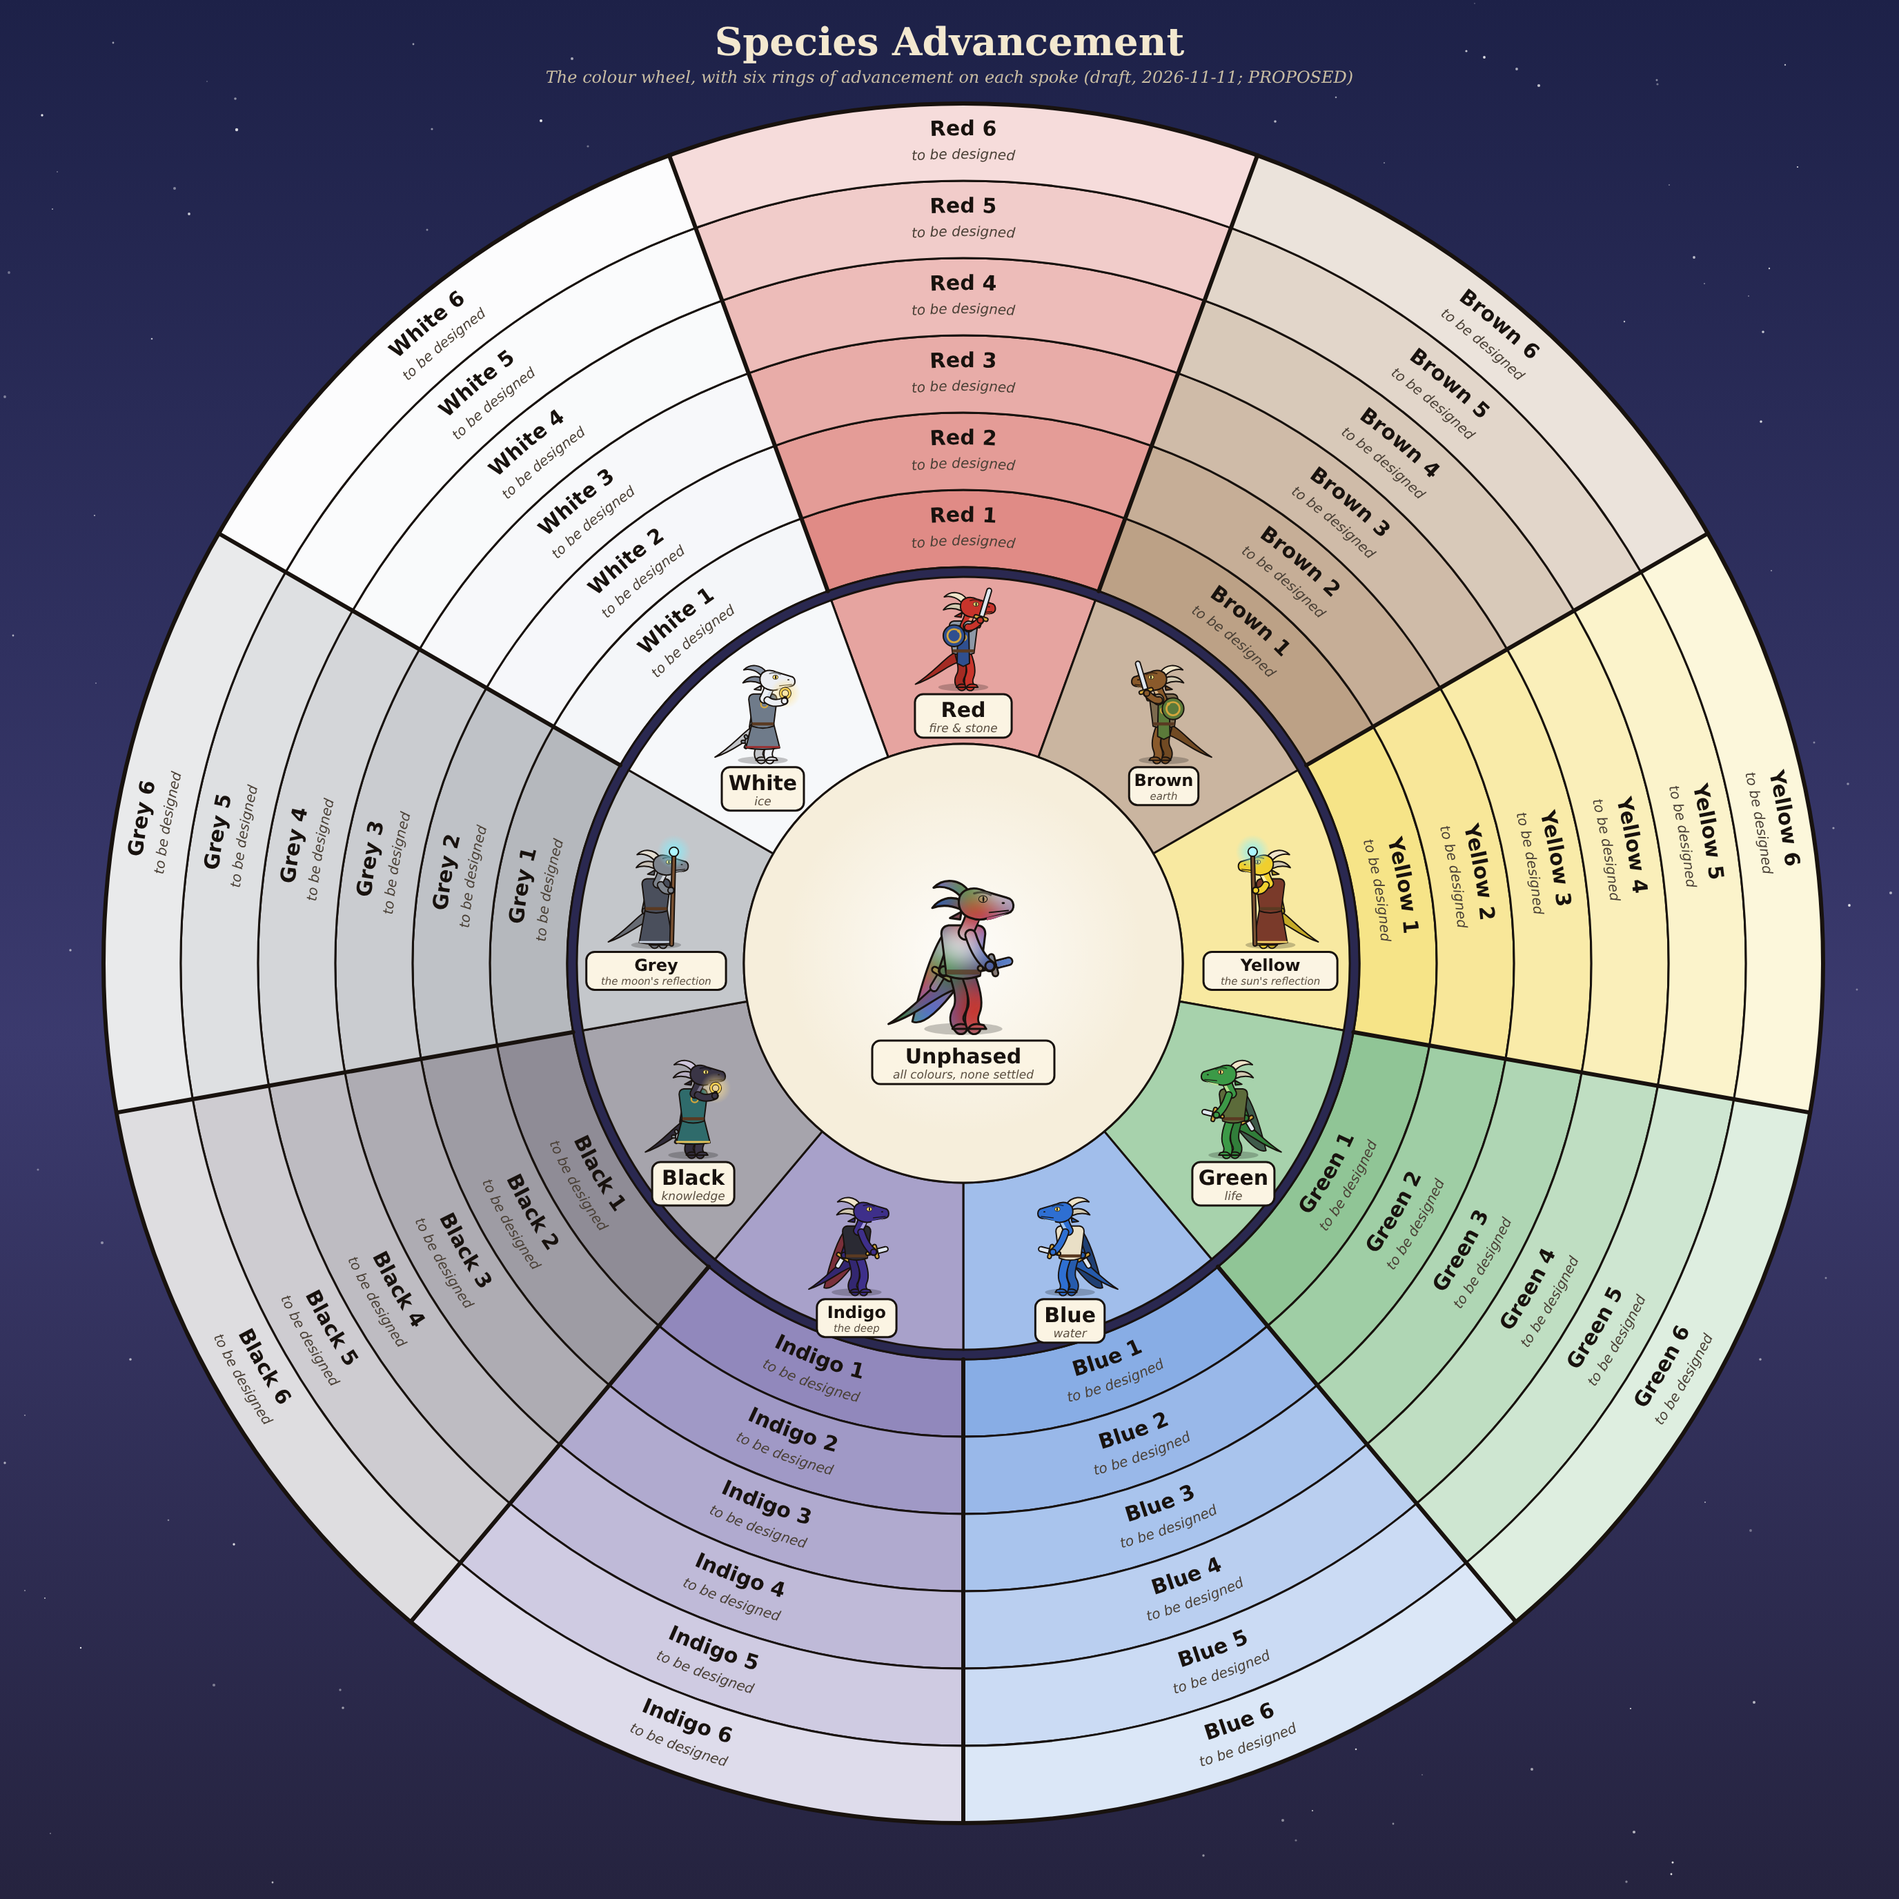
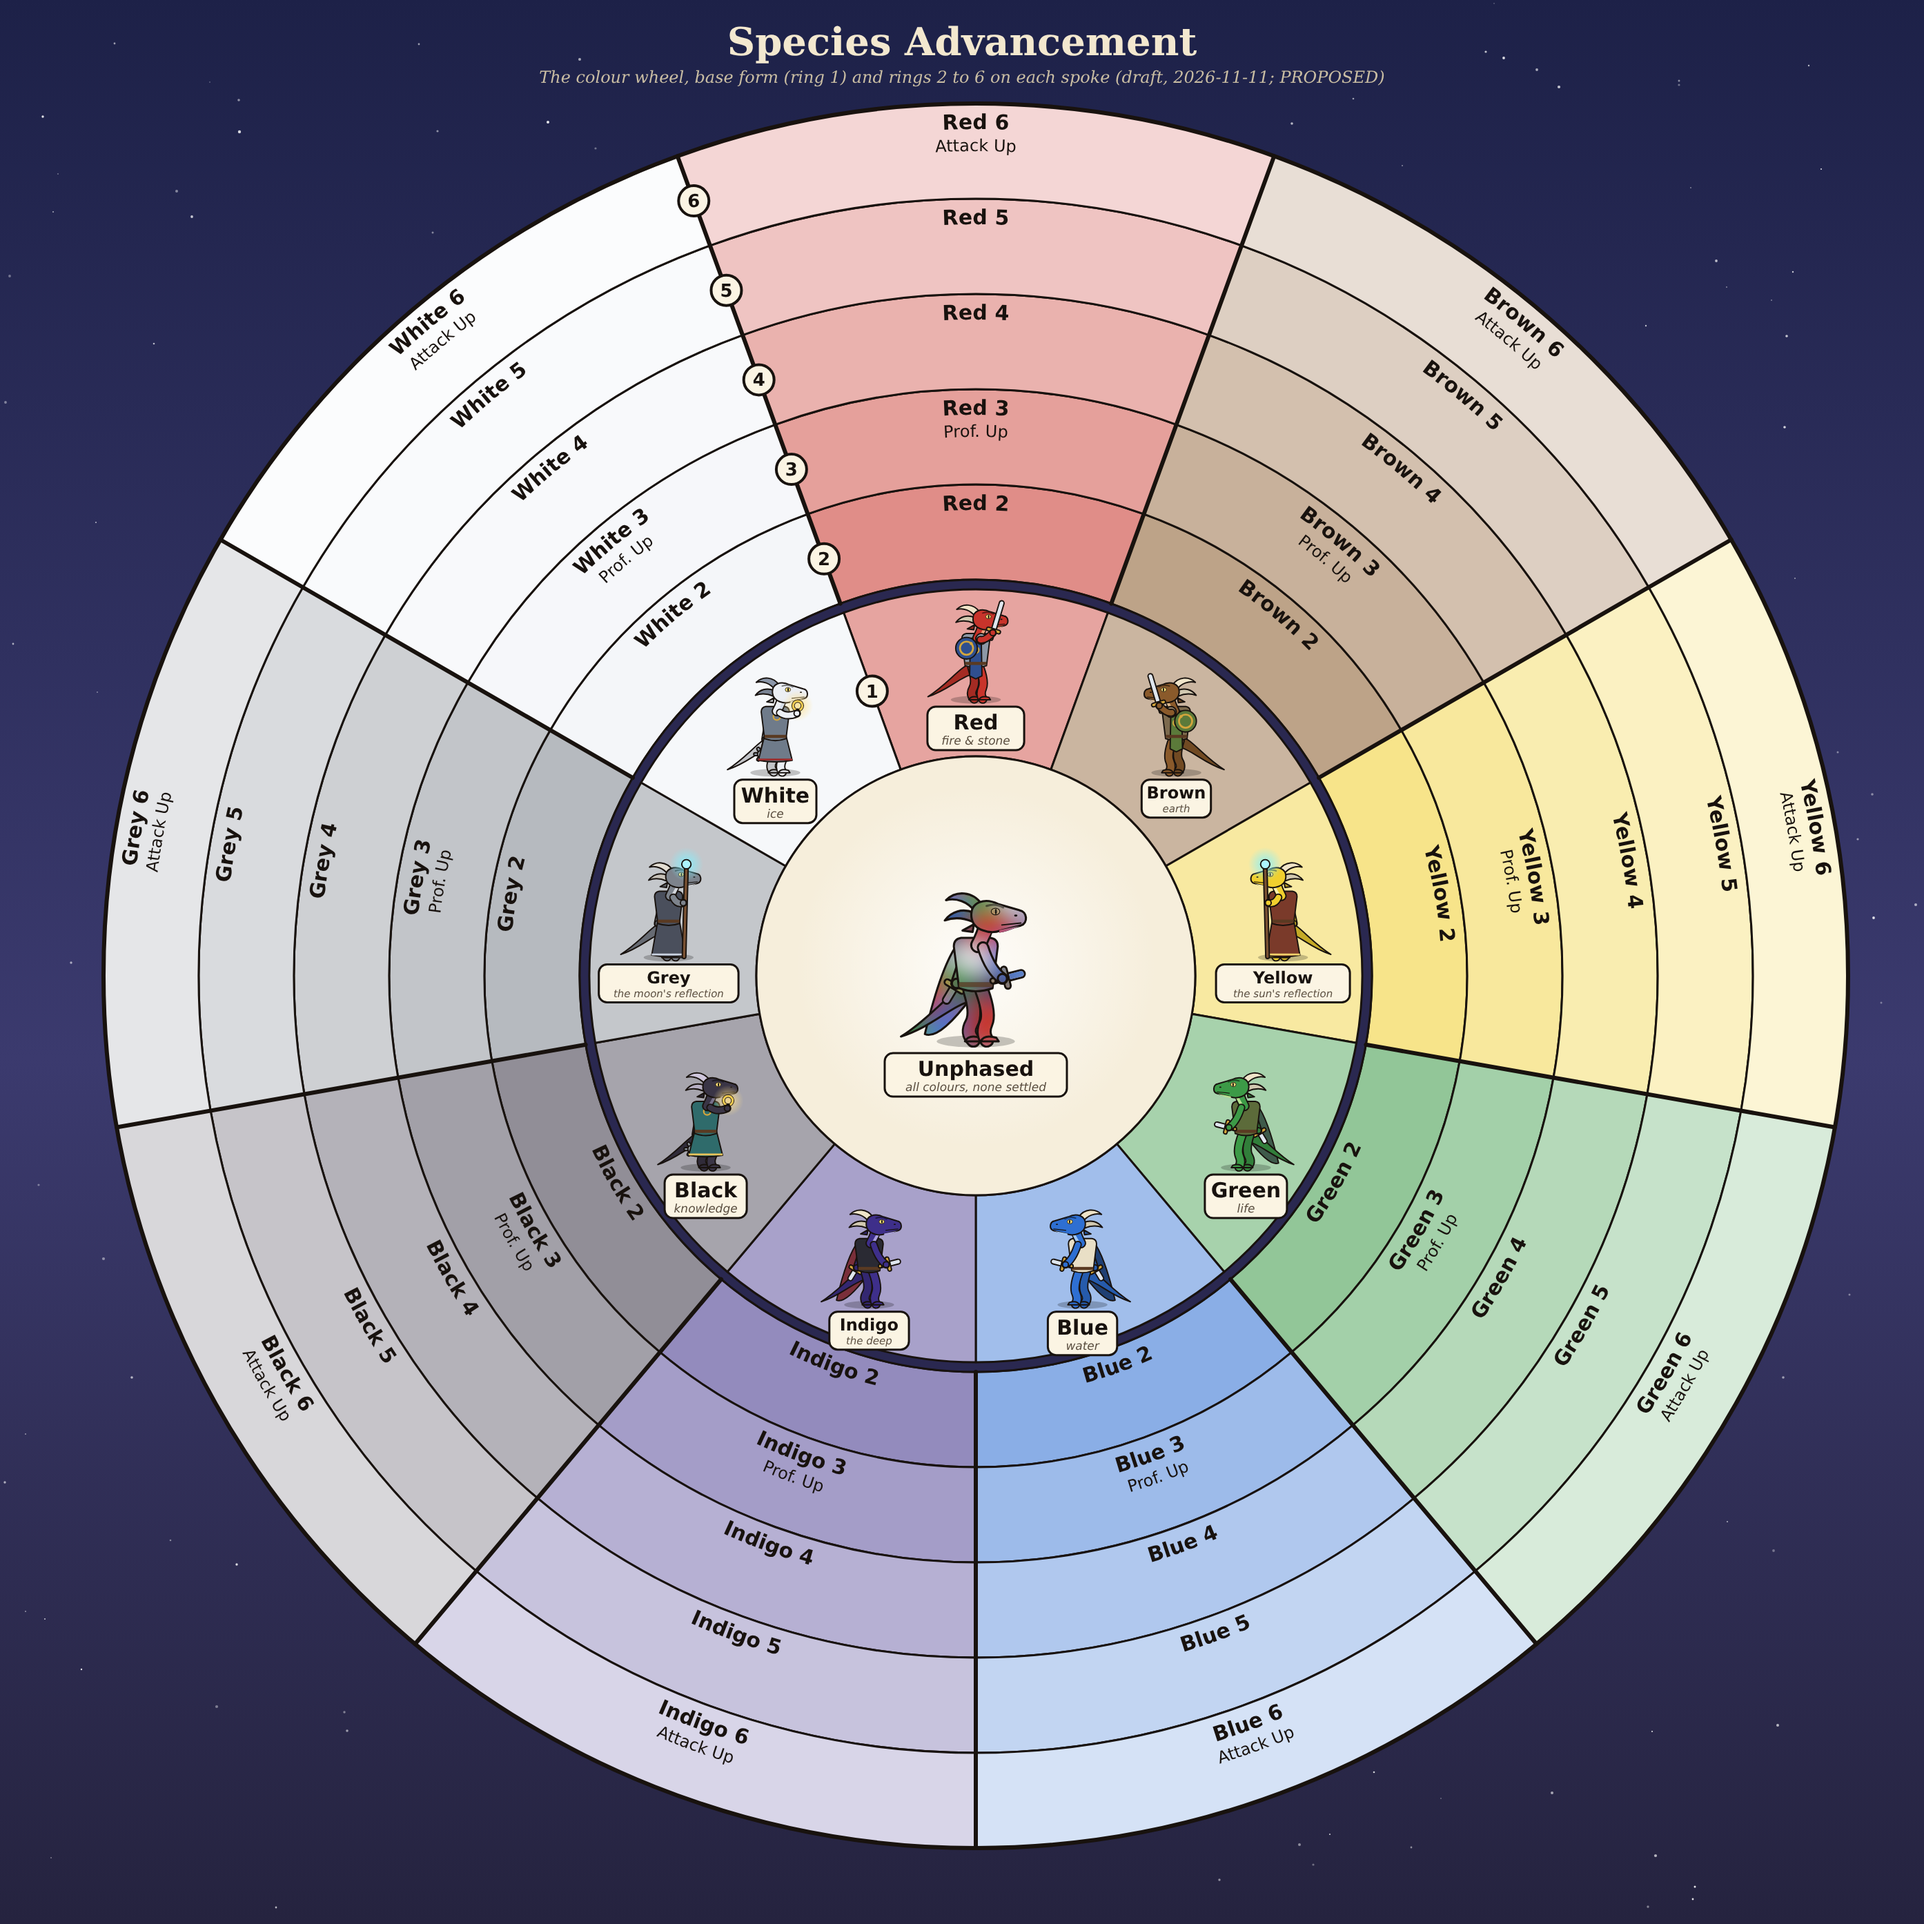
Species wheel: base form is ring 1, rings 2-6; Prof. Up on ring 3, Attack Up on ring 6
Claude-Session: https://claude.ai/code/session_014HRxeLr7e6EW9qyhZxDWju

diff --git a/art/cartoon/species_advancement.py b/art/cartoon/species_advancement.py
@@ -16,9 +16,12 @@ import party
 from party import figure, light, dark
 
 st, INK = cw.st, cw.INK
-RINGS = 6
+# Ring 1 is the base form (the colour wheel itself); rings 2-6 go outward
+# (Troy, 2026-11-11). 9 x 5 = 45 arcs beyond the base.
+FIRST, LAST = 2, 6
+RINGS = LAST - FIRST + 1
 R0 = cw.R_OUT + 14          # the colour wheel's outer edge (its thin outer circle)
-RW = 112                     # width of each advancement ring
+RW = 138                     # width of each advancement ring (three text lines)
 R_MAX = R0 + RINGS * RW
 MARGIN = 130
 W = H = int(2 * (R_MAX + MARGIN))
@@ -27,7 +30,10 @@ CX = CY = W // 2 + 20
 cw.W, cw.H, cw.CX, cw.CY = W, H, CX, CY
 STEP = cw.STEP
 
-# Arc contents: (form, ring) -> (title, subtitle). Empty for now.
+# Arc contents: (form, ring) -> (title, descriptor, numbers line).
+# Fixed for every colour (Troy, 2026-11-11): Prof. Up at ring 3, Attack Up at
+# ring 6, matching what six deep on the skills grid gives.
+FIXED = {3: "Prof. Up", 6: "Attack Up"}
 ARCS = {}
 
 
@@ -83,22 +89,25 @@ def build():
     for i, (form, name, *_rest) in enumerate(cw.WHEEL):
         scale, _belly = party.DRAGONS[form]
         a0, a1 = i * STEP - STEP / 2, i * STEP + STEP / 2
-        for k in range(1, RINGS + 1):
-            r_in, r_out = R0 + (k - 1) * RW, R0 + k * RW
-            o.append(arc_band(r_in, r_out, a0, a1, light(scale, 0.35 + 0.08 * k)))
-            title, sub = ARCS.get((form, k), (f"{name} {k}", "to be designed"))
+        for j, k in enumerate(range(FIRST, LAST + 1)):
+            r_in, r_out = R0 + j * RW, R0 + (j + 1) * RW
+            o.append(arc_band(r_in, r_out, a0, a1, light(scale, 0.35 + 0.09 * (j + 1))))
+            title, desc, nums = ARCS.get((form, k), (f"{name} {k}", FIXED.get(k, ""), ""))
             pid = f"t_{form}_{k}"
-            # two lines: title nearer the outer edge, subtitle nearer the inner
+            # Three lines, outermost first: title, descriptor, numbers. On the
+            # lower half the text is upright, so the order flips radially.
             mid_r = (r_in + r_out) / 2
-            lower = 90 < (i * STEP) % 360 < 270
-            r_title = mid_r + (-10 if lower else 10)
-            r_sub = mid_r + (24 if lower else -24)
+            sgn = -1 if 90 < (i * STEP) % 360 < 270 else 1
             pad = 2.0
-            d1, _ = text_arc(pid + "a", r_title, a0 + pad, a1 - pad)
-            d2, _ = text_arc(pid + "b", r_sub, a0 + pad, a1 - pad)
-            defs += [d1, d2]
-            texts.append(curved(pid + "a", title, 30))
-            texts.append(curved(pid + "b", sub, 20, weight="normal", style="italic", fill="#4a4036"))
+            for tag, off, txt, size, weight, style, fill in (
+                    ("a", 32, title, 30, "bold", "normal", INK),
+                    ("b", 0, desc, 24, "normal", "normal", INK),
+                    ("c", -34, nums, 22, "normal", "normal", "#4a4036")):
+                if not txt:
+                    continue
+                d, _ = text_arc(pid + tag, mid_r + sgn * off - (9 if sgn > 0 else -9) * 0, a0 + pad, a1 - pad)
+                defs.append(d)
+                texts.append(curved(pid + tag, txt, size, weight=weight, style=style, fill=fill))
     o.append('<defs>' + ''.join(defs) + '</defs>')
     o += texts
     # The colour wheel itself, as in colour_wheel.py (no Gold or Silver).
@@ -124,11 +133,18 @@ def build():
         p, q = pt(R0, a), pt(R_MAX, a)
         o.append(f'<line x1="{p[0]:.1f}" y1="{p[1]:.1f}" x2="{q[0]:.1f}" y2="{q[1]:.1f}" stroke="{INK}" stroke-width="6" stroke-linecap="round"/>')
     o.append(f'<circle cx="{CX}" cy="{CY}" r="{R_MAX}" fill="none" stroke="{INK}" stroke-width="6"/>')
+    # Ring numbers on the White-Red boundary: 1 is the base form.
+    a = -STEP / 2
+    for k, r in [(1, (cw.R_IN + cw.R_OUT) / 2)] + [(k, R0 + (j + 0.5) * RW) for j, k in enumerate(range(FIRST, LAST + 1))]:
+        x, y = pt(r, a)
+        o.append(f'<circle cx="{x:.1f}" cy="{y:.1f}" r="22" fill="#fbf4e3" stroke="{INK}" stroke-width="4"/>'
+                 f'<text x="{x:.1f}" y="{y + 9:.1f}" text-anchor="middle" font-family="DejaVu Sans" '
+                 f'font-weight="bold" font-size="26" fill="{INK}">{k}</text>')
     # Title
     o.append(f'<text x="{W/2}" y="80" text-anchor="middle" font-family="DejaVu Serif" font-weight="bold" '
              f'font-size="56" fill="#f3e8cf">Species Advancement</text>')
     o.append(f'<text x="{W/2}" y="120" text-anchor="middle" font-family="DejaVu Serif" font-style="italic" '
-             f'font-size="24" fill="#c9bda3">The colour wheel, with six rings of advancement on each spoke (draft, 2026-11-11; PROPOSED)</text>')
+             f'font-size="24" fill="#c9bda3">The colour wheel, base form (ring 1) and rings 2 to 6 on each spoke (draft, 2026-11-11; PROPOSED)</text>')
     o.append('</svg>')
     return ''.join(o)
 

diff --git a/canon/brainstorm-progression.md b/canon/brainstorm-progression.md
@@ -321,7 +321,9 @@ Before the revaluation, every kit was below the 2024 level 1 it replaces, and th
 
 - **Root:** the existing species description and each form's colour-wheel package. The spoke advances outward from it.
 - **No breath weapons** (already retired, 2026-10-30). Azhi's dragonborn aren't the SRD's; breath weapons may come back later, but not now.
-- **Linear cost** per ring for now (replacing the Fibonacci idea), **six rings deep** at most for now: **9 × 6 = 54 arcs** to fill.
+- **Linear cost** per ring for now (replacing the Fibonacci idea). **Six rings including the base:** the base form is **ring 1** (you always have it unless Unphased); rings **2–6** go outward: **9 × 5 = 45 arcs** to fill. Basically on-the-rails progression; if we ever branch, we split rings.
+- **Progress points** *(Troy, 2026-11-11)*: each level-up gives **one progress point**, invested either here or on the skills grid. Each is **six deep**: this wheel linear, the grid flexible (dipping into several kits). **Six deep in either should give about the same power**, so neither path misses Attack Up or Prof. Up.
+- **Fixed on every spoke:** **Prof. Up on ring 3**, **Attack Up on ring 6**. Hit Dice, stamina and mana to be added next. *(Claude: six deep on a skills-grid main line also gives one of each, Attack Up on ring 5 and Prof. Up on ring 6.)*
 - **Open:** choices per ring; what the Unphased do with form points; how points accumulate.
 - **Diagram:** `art/cartoon/species_advancement.py` → `output/species_advancement.png`. The colour wheel (unchanged in `colour_wheel.py`) without Gold and Silver, six concentric rings, nine radial lines; arc text follows the arc. Fill arcs in its `ARCS` table.
 

diff --git a/canon/decisions.md b/canon/decisions.md
@@ -4,6 +4,7 @@ Newest first. One line per decision: what was decided, and why if a reason was g
 
 ## 2026-11-11
 
+- **Species wheel rings and progress points** (Troy): the base form is ring 1, advancement rings 2–6 (45 arcs). One progress point per level-up, spent on this wheel or the skills grid; six deep in either gives about the same power. Prof. Up on every ring-3 arc, Attack Up on every ring-6 arc.
 - **Species advancement wheel** (Troy): the root is the existing species description and colour-wheel form; linear cost per ring for now, six rings deep (54 arcs); choices per ring, Unphased points and accumulation left open. No breath weapons (reaffirmed). Diagram: `art/cartoon/species_advancement.py`.
 - **Full class rebuild** (Troy): classes are replaced by the progression trees and the skills grid. `canon/brainstorm-progression.md` moves from EXPLORING to ADOPTED direction. Troy: "Progression on wheels is a fun theme for a ring-shaped world."
 - **Ring 2 names** (Troy, voice): kit lines Herald II, Scout II, Fighter II, Tank II, Mystic II, Mage II; seams 202 Cunning, 204 Precision, 206 Might, 208 Vitality, 210 Lore, 212 Control, continuing as II on the ring-4 seams and III on the ring-6 seams.
